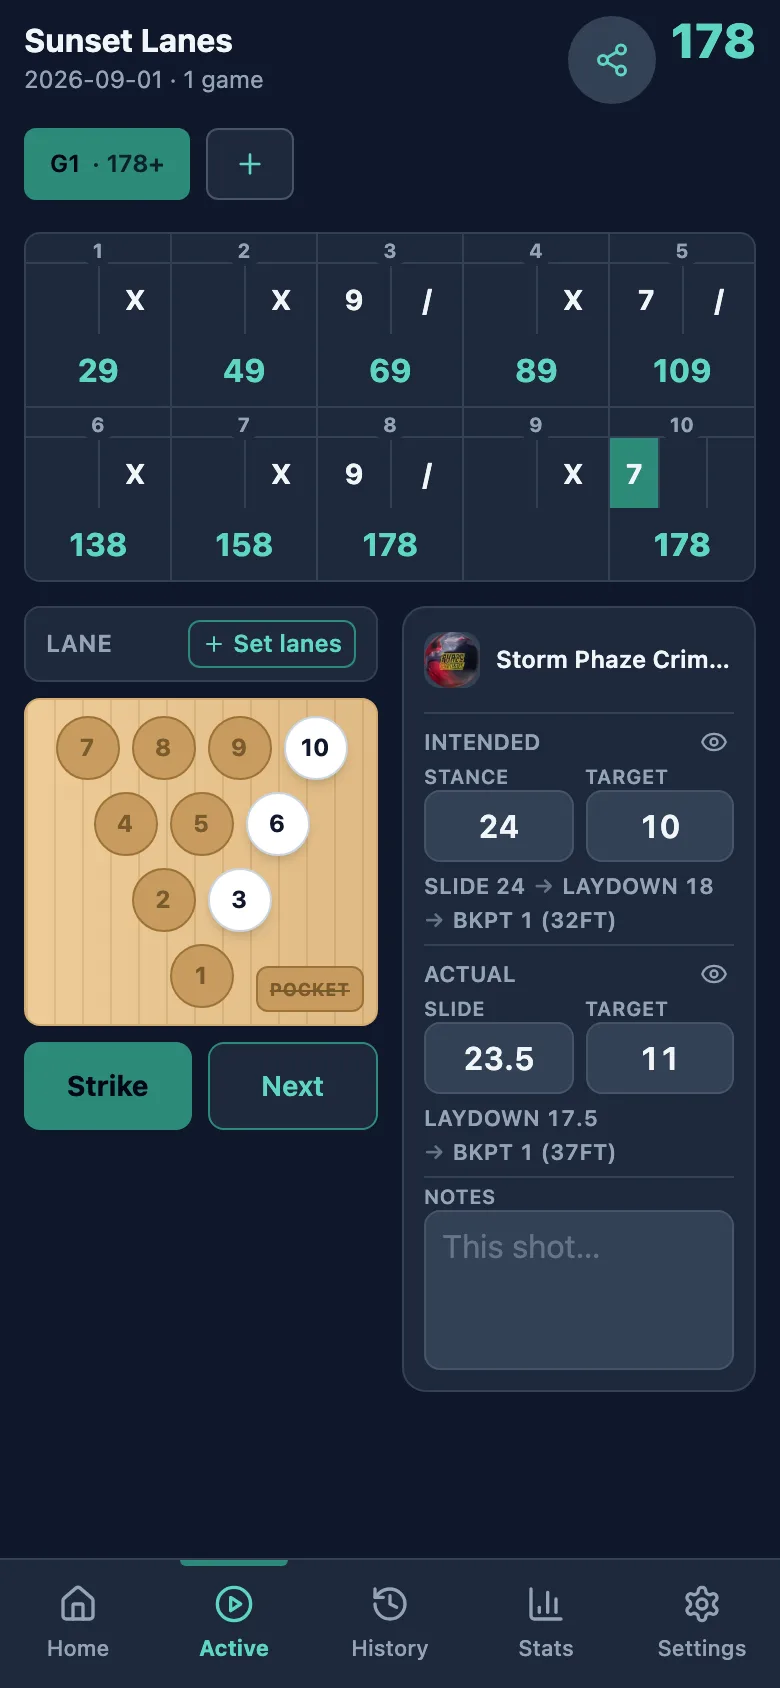
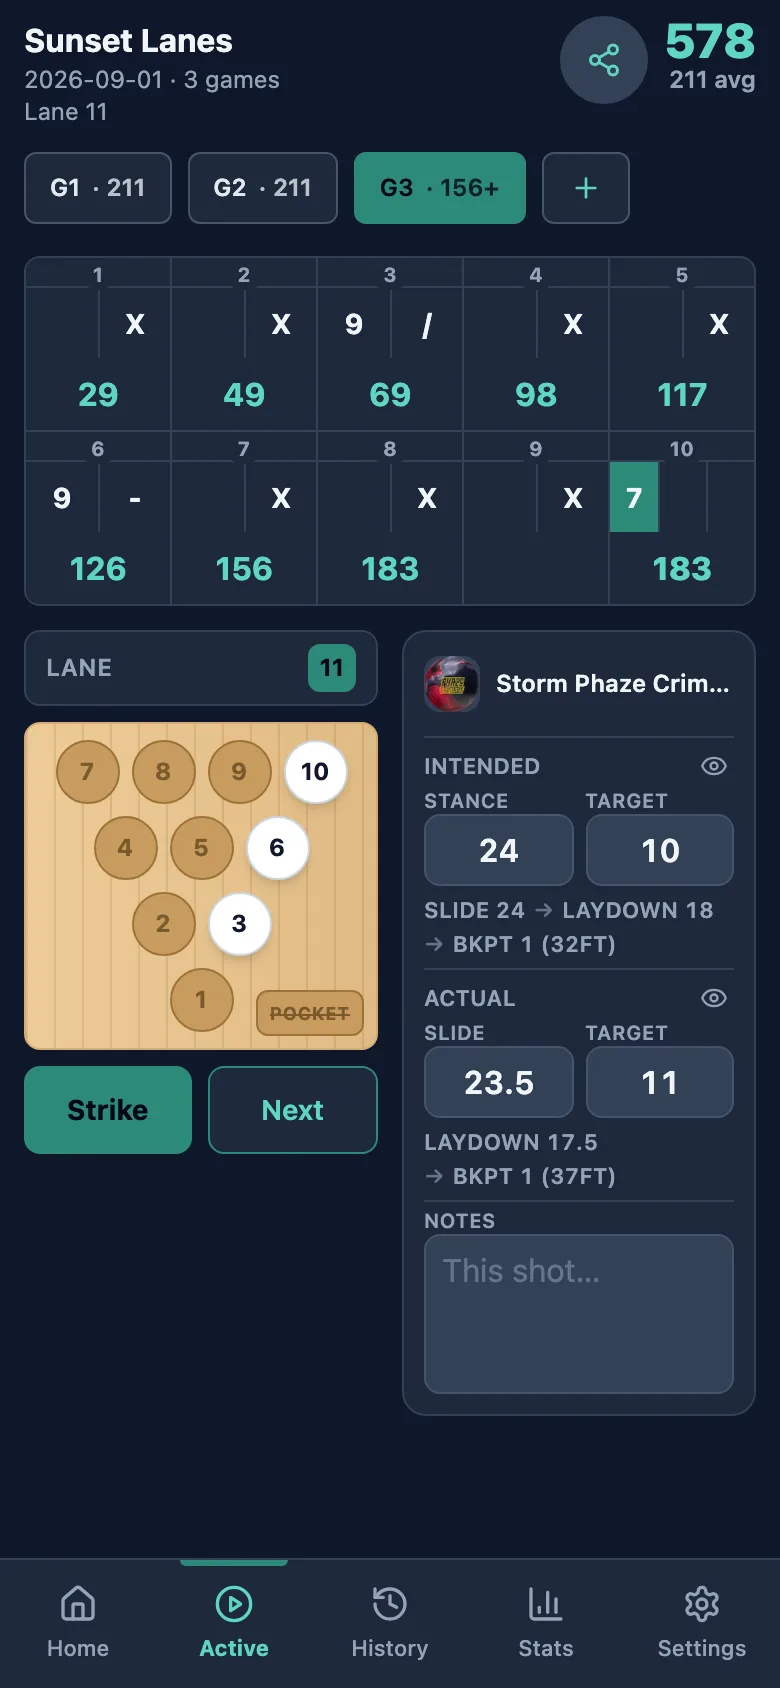
feat(landing): a night on the screen, and a viewer to read it in
The screenshots now show a night rather than a fragment: three games in
the bar, lanes filled in, five balls in the table with ten first balls
each. Tapping one opens it full size in a <dialog>, which brings Escape,
focus trapping and a backdrop with it; each phone is a plain link to its
own file underneath, so with scripts off the picture still opens.

The ball table was reporting one first ball per ball and rates of 0% or
100%. A new shot *displays* the previous shot's ball, but that is a
suggestion: picking the ball already shown changes nothing, so nothing is
written and the shot is saved with no ball at all. The capture now picks
another ball first, which makes the second pick a real change. Every
other first ball had simply been going missing.

The five nights are built to five different (strikes, pocket leaves,
misses) counts, because the three columns are not free of each other:
carry is strikes over pocket hits, so a night where every ball found the
pocket has carry equal to strike by definition.

Three games also turns the backup nudge into a standing red banner with
no Later on it, so the capture answers it the way a bowler does and takes
the backup.

The share card gains the app mark beside its wordmark. The image is
loaded in the dialog rather than in the card builder: fetching is the
view layer's job, jsdom does not fetch, and a card that could not get one
is still a card.

Also drops the offline install section from the landing page and puts the
[…]

diff --git a/index.html b/index.html
@@ -17,7 +17,7 @@
     <title>Headpin, free offline bowling score keeper</title>
     <meta
       name="description"
-      content="Strikes and spares per game - the best bowlers keep track of all their stats. Try the easiest-to-use bowling score and stats tracker that looks nice and feels nice."
+      content="The top bowlers know their stats. Try the best bowling score and stats tracker app, and never forget what worked on lane 12 the last time you bowled there."
     />
     <link rel="canonical" href="https://headpin.app/" />
 
@@ -32,7 +32,7 @@
     <meta property="og:title" content="Headpin, free offline bowling score keeper" />
     <meta
       property="og:description"
-      content="Strikes and spares per game - the best bowlers keep track of all their stats. Try the easiest-to-use bowling score and stats tracker that looks nice and feels nice."
+      content="The top bowlers know their stats. Try the best bowling score and stats tracker app, and never forget what worked on lane 12 the last time you bowled there."
     />
     <meta property="og:image" content="https://headpin.app/og-image.png" />
     <meta property="og:image:width" content="1200" />
@@ -42,7 +42,7 @@
     <meta name="twitter:title" content="Headpin, free offline bowling score keeper" />
     <meta
       name="twitter:description"
-      content="Strikes and spares per game - the best bowlers keep track of all their stats. Try the easiest-to-use bowling score and stats tracker that looks nice and feels nice."
+      content="The top bowlers know their stats. Try the best bowling score and stats tracker app, and never forget what worked on lane 12 the last time you bowled there."
     />
     <meta name="twitter:image" content="https://headpin.app/og-image.png" />
 
@@ -63,7 +63,7 @@
             "@id": "https://headpin.app/#website",
             "url": "https://headpin.app/",
             "name": "Headpin",
-            "description": "Strikes and spares per game - the best bowlers keep track of all their stats. Try the easiest-to-use bowling score and stats tracker that looks nice and feels nice."
+            "description": "The top bowlers know their stats. Try the best bowling score and stats tracker app, and never forget what worked on lane 12 the last time you bowled there."
           },
           {
             "@type": "SoftwareApplication",
@@ -258,6 +258,51 @@
         height: auto;
         display: block;
       }
+      .shot-link {
+        display: block;
+        cursor: zoom-in;
+        border-radius: 1.5rem;
+        text-decoration: none;
+      }
+      .shot-link:focus-visible {
+        outline: 2px solid var(--felt);
+        outline-offset: 4px;
+      }
+      #viewer {
+        border: 0;
+        padding: 0;
+        max-width: 100vw;
+        max-height: 100vh;
+        width: 100%;
+        height: 100%;
+        background: transparent;
+        overflow: hidden;
+      }
+      #viewer::backdrop {
+        background: rgb(0 0 0 / 0.88);
+      }
+      #viewer img {
+        display: block;
+        margin: auto;
+        max-width: min(100%, 24rem);
+        max-height: 92vh;
+        width: auto;
+        border-radius: 0.9rem;
+      }
+      #viewer-close {
+        position: fixed;
+        top: 0.75rem;
+        right: 0.75rem;
+        width: 2.75rem;
+        height: 2.75rem;
+        border: 0;
+        border-radius: 999px;
+        background: rgb(255 255 255 / 0.14);
+        color: #fff;
+        font-size: 1.5rem;
+        line-height: 1;
+        cursor: pointer;
+      }
       .shots figcaption {
         margin-top: 0.6rem;
         font-size: 0.8rem;
@@ -298,9 +343,9 @@
       <img class="mark" src="/icons/icon-192.png" width="72" height="72" alt="" />
       <h1>Headpin</h1>
       <p class="lede">
-        Strikes and spares per game - the best bowlers keep track of all their
-        stats. Try the easiest-to-use bowling score and stats tracker that looks
-        nice and feels nice.
+        The top bowlers know their stats. Try the best bowling score and stats
+        tracker app, and never forget what worked on lane 12 the last time you
+        bowled there.
       </p>
       <a class="cta" href="/score">Open Headpin</a>
       <p class="cta-note">Free - no sign up required</p>
@@ -319,7 +364,7 @@
       -->
       <section class="shots">
         <figure>
-          <div class="phone"><div class="screen">
+          <a class="shot-link" href="/shots/scorer.webp" aria-label="View the scorecard larger"><div class="phone"><div class="screen">
             <picture>
             <source srcset="/shots/scorer-light.webp" media="(prefers-color-scheme: light)" />
             <img
@@ -329,22 +374,22 @@
               alt="A Headpin scorecard on the tenth frame, nine frames scored, three pins left standing, with the ball and the line written down beside it."
             />
           </picture>
-          </div></div>
-          <figcaption>Tap the pins. It does the maths.</figcaption>
+          </div></div></a>
+          <figcaption>Tap the pins, choose your ball, set your targets.</figcaption>
         </figure>
         <figure>
-          <div class="phone phone-dark"><div class="screen">
+          <a class="shot-link" href="/shots/line.webp" aria-label="View the lane view larger"><div class="phone phone-dark"><div class="screen">
             <img
               src="/shots/line.webp"
               width="780"
               height="1688"
               alt="The Headpin lane view, showing a ball path from laydown through the target arrows to the breakpoint and into the pocket."
             />
-          </div></div>
-          <figcaption>See the line you threw.</figcaption>
+          </div></div></a>
+          <figcaption>Visualize your line.</figcaption>
         </figure>
         <figure>
-          <div class="phone"><div class="screen">
+          <a class="shot-link" href="/shots/stats.webp" aria-label="View the stats screen larger"><div class="phone"><div class="screen">
             <picture>
             <source srcset="/shots/stats-light.webp" media="(prefers-color-scheme: light)" />
             <img
@@ -354,11 +399,11 @@
               alt="The Headpin stats screen showing a 193 average across five games, strike and spare percentages, and a line chart of average by session."
             />
           </picture>
-          </div></div>
-          <figcaption>Watch your average move.</figcaption>
+          </div></div></a>
+          <figcaption>Track your average, strike percentage, spare rates</figcaption>
         </figure>
         <figure>
-          <div class="phone"><div class="screen">
+          <a class="shot-link" href="/shots/arsenal.webp" aria-label="View the arsenal larger"><div class="phone"><div class="screen">
             <picture>
             <source srcset="/shots/arsenal-light.webp" media="(prefers-color-scheme: light)" />
             <img
@@ -368,8 +413,8 @@
               alt="The Headpin arsenal screen listing five bowling balls with their coverstock, RG and differential."
             />
           </picture>
-          </div></div>
-          <figcaption>Keep your arsenal in it.</figcaption>
+          </div></div></a>
+          <figcaption>Build your arsenal</figcaption>
         </figure>
       </section>
 
@@ -381,14 +426,53 @@
         <li><b>No app store download needed.</b> Installs to your home screen.</li>
       </ul>
 
-      <h2>How to use it offline</h2>
-      <p>
-        Open Headpin on your phone. On iPhone, tap Share and then Add to Home
-        Screen. On Android, tap the menu and then Install app. It then opens like
-        any other app, with or without signal.
-      </p>
-
       <footer>Made by bowlers, for bowlers.</footer>
     </main>
+
+    <!--
+      Full-size viewer. A <dialog> rather than a hand-rolled overlay: Escape,
+      focus trapping and the backdrop all come with it. Each phone is a plain
+      link to its own file underneath, so with scripts off the picture still
+      opens, just in a tab of its own.
+    -->
+    <dialog id="viewer" aria-label="Screenshot">
+      <button type="button" id="viewer-close" aria-label="Close">&times;</button>
+      <img id="viewer-img" src="" alt="" />
+    </dialog>
+    <script>
+      (function () {
+        var dlg = document.getElementById("viewer");
+        if (!dlg || typeof dlg.showModal !== "function") return;
+        var img = document.getElementById("viewer-img");
+
+        document.querySelectorAll(".shot-link").forEach(function (link) {
+          link.addEventListener("click", function (e) {
+            // Let a modified click do what the browser would normally do with
+            // it: open the file in a new tab, save it, and so on.
+            if (e.metaKey || e.ctrlKey || e.shiftKey || e.altKey || e.button !== 0) return;
+            e.preventDefault();
+            var shot = link.querySelector("img");
+            // currentSrc, not src: <picture> has already chosen the theme, and
+            // the viewer must show the picture the reader is looking at.
+            img.src = shot.currentSrc || shot.src;
+            img.alt = shot.alt;
+            dlg.showModal();
+          });
+        });
+
+        document.getElementById("viewer-close").addEventListener("click", function () {
+          dlg.close();
+        });
+        // A click on the backdrop lands on the dialog itself, never on a child.
+        dlg.addEventListener("click", function (e) {
+          if (e.target === dlg) dlg.close();
+        });
+        // Drop the file when the viewer closes, so it is not held in memory
+        // for a page the reader may never scroll back to.
+        dlg.addEventListener("close", function () {
+          img.removeAttribute("src");
+        });
+      })();
+    </script>
   </body>
 </html>

diff --git a/src/lib/shareCard.ts b/src/lib/shareCard.ts
@@ -41,6 +41,11 @@ export interface ShareCardData {
   /** Supporting numbers, two per row. Four rows deep is the cap, and a card
    *  with game boxes only has room for two. */
   stats: ShareStat[];
+  /** The app mark, drawn beside the footer wordmark. Passed in rather than
+   *  loaded here: fetching an image is the view layer's job, and a card that
+   *  could not get one is still a card, so it is optional and the wordmark
+   *  simply sits where it always did. */
+  mark?: CanvasImageSource;
 }
 
 /* ------------------------------------------------------------------ *
@@ -317,13 +322,22 @@ export async function renderShareCard(data: ShareCardData): Promise<Blob> {
     ctx.fillText(stat.label.toUpperCase(), x, rowY + 98);
   });
 
-  // Footer wordmark. The entire reason a share is worth building, so it is
-  // cream rather than the brand green, which on this ground is barely legible.
+  // Footer wordmark, with the mark beside it. The entire reason a share is
+  // worth building, so it is cream rather than the brand green, which on this
+  // ground is barely legible.
   ctx.fillStyle = "rgba(255, 248, 237, 0.16)";
   ctx.fillRect(PAD, 1200, W - PAD * 2, 2);
+
+  let textX = PAD;
+  if (data.mark) {
+    const size = 56;
+    ctx.drawImage(data.mark, PAD, 1268 - size + 10, size, size);
+    textX = PAD + size + 20;
+  }
+
   ctx.fillStyle = CREAM;
   ctx.font = font(800, 46);
-  ctx.fillText("Headpin", PAD, 1268);
+  ctx.fillText("Headpin", textX, 1268);
 
   return new Promise((resolve, reject) => {
     canvas.toBlob((blob) => {

diff --git a/src/components/ShareCardDialog.tsx b/src/components/ShareCardDialog.tsx
@@ -3,6 +3,27 @@ import { useOverlay } from "../lib/useOverlay";
 import { useSheetDismiss } from "../lib/useSheetDismiss";
 import { Button } from "./ui/Button";
 import { renderShareCard, shareCardFilename, shareCardImage } from "../lib/shareCard";
+
+/**
+ * The app icon, for the footer of the share card.
+ *
+ * The shipped file rather than the pin redrawn on the canvas: the mark already
+ * has one definition and a second copy of the geometry would drift from it
+ * silently. Loaded once and remembered, because a night can be shared twice.
+ *
+ * A share is worth more than its logo, so a mark that will not load resolves to
+ * nothing and the card is drawn without it.
+ */
+let markPromise: Promise<HTMLImageElement | undefined> | undefined;
+function loadMark(): Promise<HTMLImageElement | undefined> {
+  markPromise ??= new Promise((resolve) => {
+    const img = new Image();
+    img.onload = () => resolve(img);
+    img.onerror = () => resolve(undefined);
+    img.src = "/icons/icon-192.png";
+  });
+  return markPromise;
+}
 import type { ShareCardData } from "../lib/shareCard";
 
 interface ShareCardDialogProps {
@@ -37,7 +58,8 @@ export function ShareCardDialog({ open, card, onClose }: ShareCardDialogProps) {
     setPreview(null);
     setBlob(null);
 
-    renderShareCard(card)
+    loadMark()
+      .then((mark) => renderShareCard({ ...card, mark }))
       .then((made) => {
         if (!live) return;
         url = URL.createObjectURL(made);
